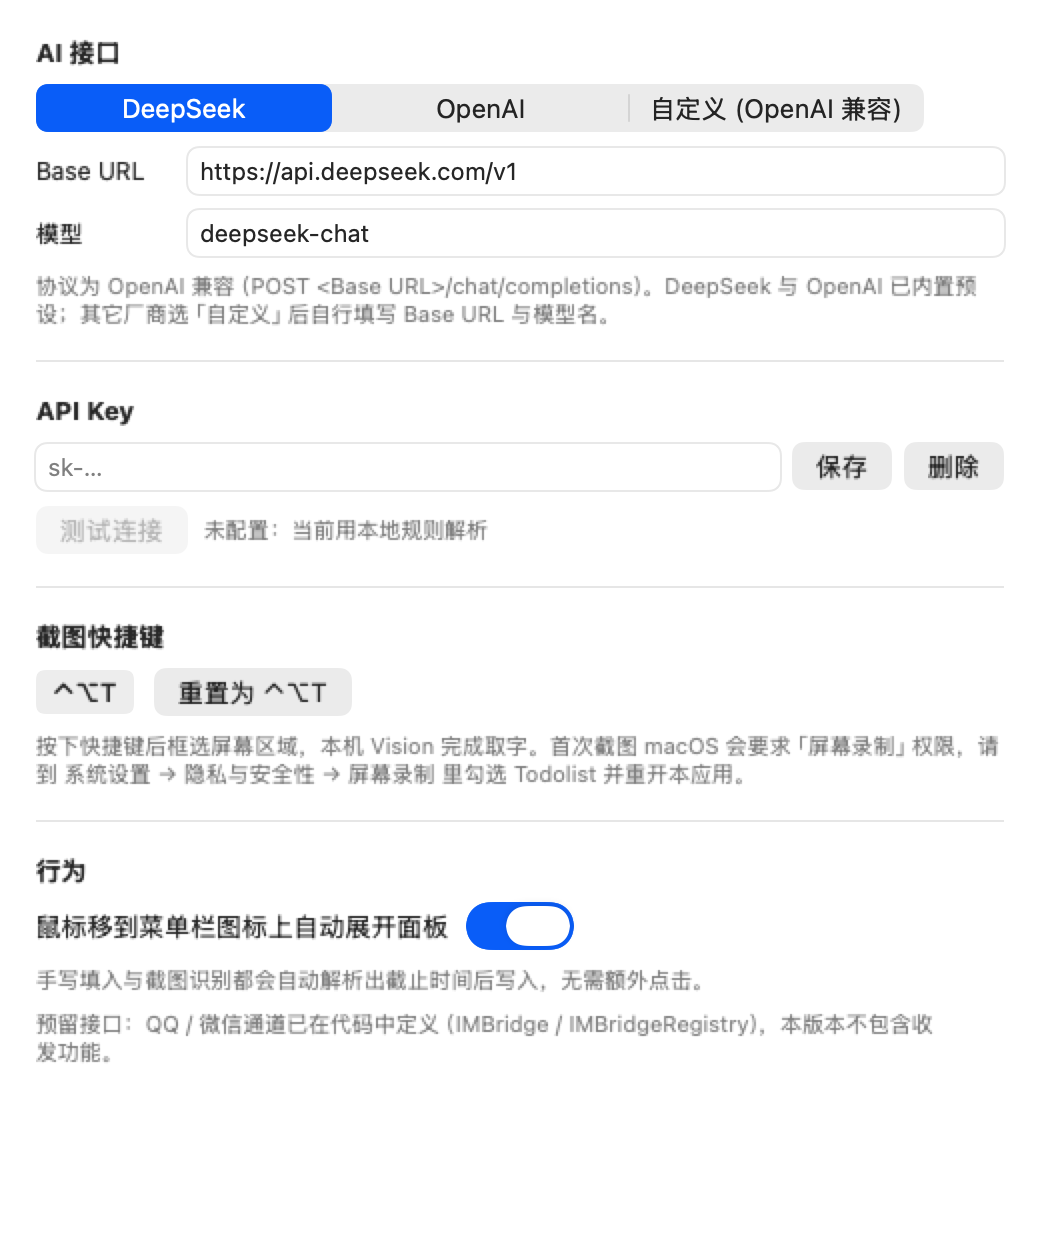
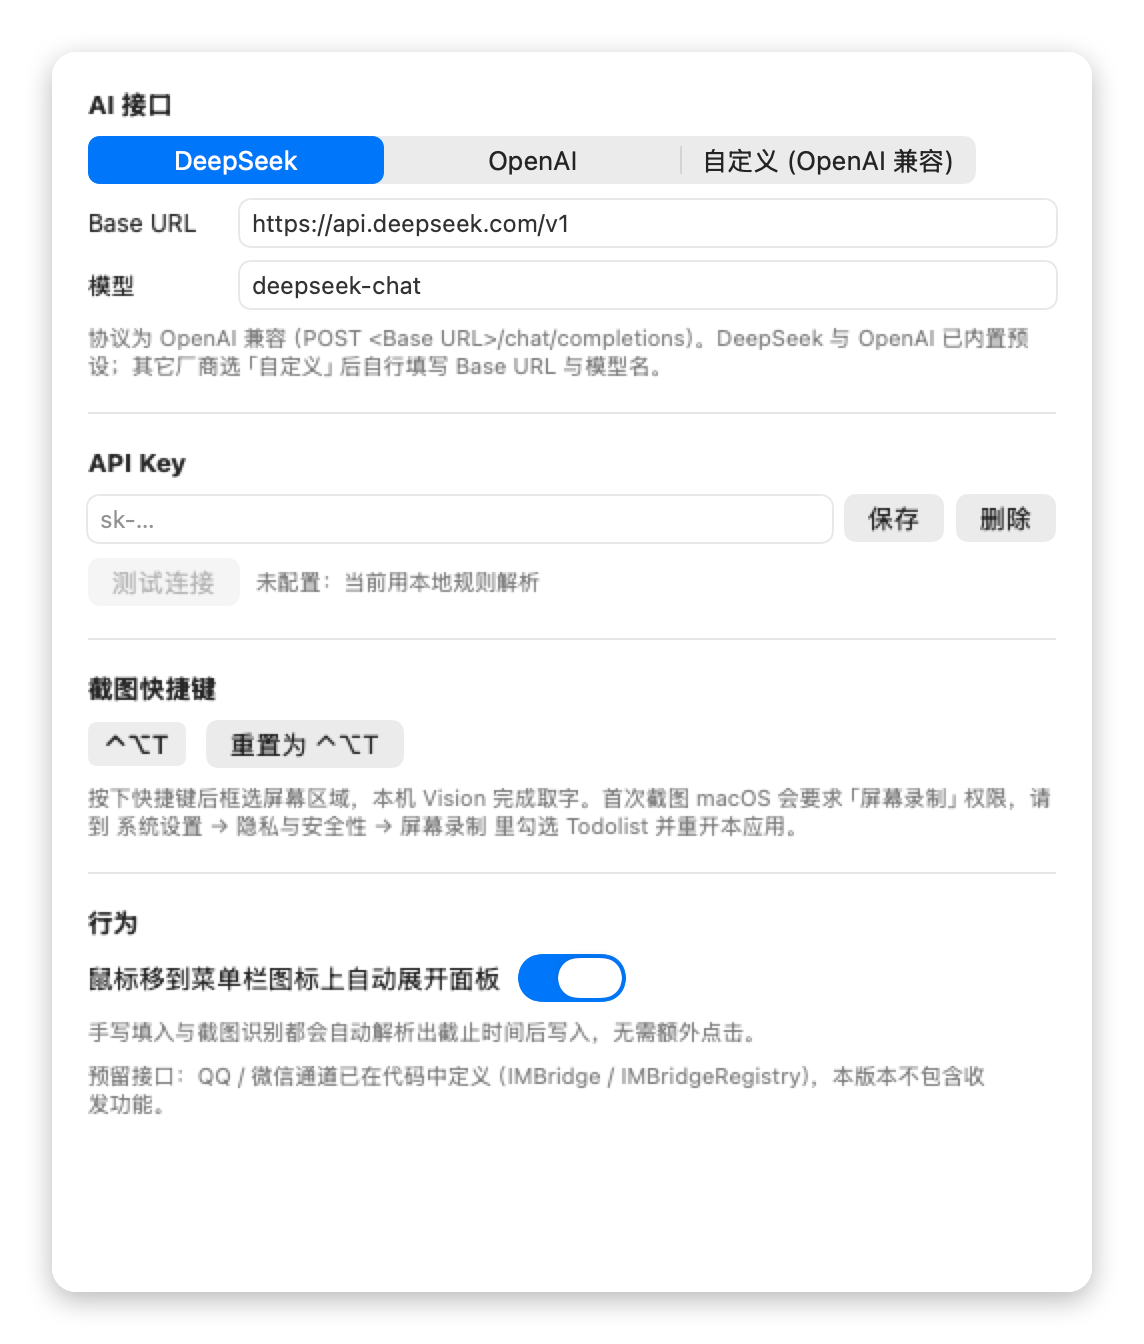
chore: 无背景截图、DMG 打包脚本与自动 Release 工作流
- 截图改为透明背景圆角卡片渲染（不再包含桌面背景）
- 新增 package.sh 生成 DMG 安装包（含拖拽安装与应用说明）
- 新增 release.yml：推 v* tag 时自动构建并上传 DMG
- 版本号 1.0.0

diff --git a/Sources/SnapshotTool.swift b/Sources/SnapshotTool.swift
@@ -1,22 +1,28 @@
 import AppKit
 import SwiftUI
 
-/// 把面板与设置窗直接渲染成 PNG，用于无屏幕录制权限时的界面验收。
+/// 把面板与设置窗渲染成无背景 PNG（透明画布 + 圆角卡片），用于 README 与界面验收。
 enum SnapshotTool {
+    private static let scale: CGFloat = 2
+    private static let padding: CGFloat = 26
+
     static func render(into directory: String) {
         let app = AppController.shared
         let dir = URL(fileURLWithPath: directory, isDirectory: true)
         try? FileManager.default.createDirectory(at: dir, withIntermediateDirectories: true)
 
-        let populated = TodoPanelView(store: app.store, app: app, actions: app.makeActions())
-        write(populated, size: NSSize(width: 380, height: 520), to: dir.appendingPathComponent("panel-populated.png"))
+        NSApp.appearance = NSAppearance(named: .aqua)
+        NSAppearance(named: .aqua)?.performAsCurrentDrawingAppearance {
+            let populated = TodoPanelView(store: app.store, app: app, actions: app.makeActions())
+            write(populated, size: NSSize(width: 380, height: 520), to: dir.appendingPathComponent("panel.png"))
 
-        let emptyStore = TodoStore(directory: dir.appendingPathComponent(".empty-store", isDirectory: true))
-        let empty = TodoPanelView(store: emptyStore, app: app, actions: app.makeActions())
-        write(empty, size: NSSize(width: 380, height: 520), to: dir.appendingPathComponent("panel-empty.png"))
+            let emptyStore = TodoStore(directory: dir.appendingPathComponent(".empty-store", isDirectory: true))
+            let empty = TodoPanelView(store: emptyStore, app: app, actions: app.makeActions())
+            write(empty, size: NSSize(width: 380, height: 520), to: dir.appendingPathComponent("panel-empty.png"))
 
-        let settings = SettingsView(app: app, settings: app.settings)
-        write(settings, size: NSSize(width: 520, height: 620), to: dir.appendingPathComponent("settings.png"))
+            let settings = SettingsView(app: app, settings: app.settings)
+            write(settings, size: NSSize(width: 520, height: 620), to: dir.appendingPathComponent("settings.png"))
+        }
 
         NSLog("[snapshot] written to \(dir.path)")
     }
@@ -26,13 +32,56 @@ enum SnapshotTool {
         hosting.frame = NSRect(origin: .zero, size: size)
         hosting.layoutSubtreeIfNeeded()
 
-        let appearance = NSAppearance(named: .aqua)
-        appearance?.performAsCurrentDrawingAppearance {
-            guard let rep = hosting.bitmapImageRepForCachingDisplay(in: hosting.bounds) else { return }
-            hosting.cacheDisplay(in: hosting.bounds, to: rep)
-            if let png = rep.representation(using: .png, properties: [:]) {
-                try? png.write(to: url)
-            }
-        }
+        guard let inner = hosting.bitmapImageRepForCachingDisplay(in: hosting.bounds) else { return }
+        hosting.cacheDisplay(in: hosting.bounds, to: inner)
+        let innerImage = NSImage(size: size)
+        innerImage.addRepresentation(inner)
+
+        let canvas = NSSize(width: size.width + padding * 2, height: size.height + padding * 2)
+        let pixelsWide = Int(canvas.width * scale)
+        let pixelsHigh = Int(canvas.height * scale)
+        guard let canvasRep = NSBitmapImageRep(
+            bitmapDataPlanes: nil,
+            pixelsWide: pixelsWide,
+            pixelsHigh: pixelsHigh,
+            bitsPerSample: 8,
+            samplesPerPixel: 4,
+            hasAlpha: true,
+            isPlanar: false,
+            colorSpaceName: .deviceRGB,
+            bytesPerRow: 0,
+            bitsPerPixel: 0
+        ) else { return }
+        canvasRep.size = canvas
+
+        NSGraphicsContext.saveGraphicsState()
+        NSGraphicsContext.current = NSGraphicsContext(bitmapImageRep: canvasRep)
+        NSColor.clear.set()
+        NSRect(origin: .zero, size: canvas).fill()
+
+        let panelRect = NSRect(x: padding, y: padding, width: size.width, height: size.height)
+        let card = NSBezierPath(roundedRect: panelRect, xRadius: 12, yRadius: 12)
+
+        let shadow = NSShadow()
+        shadow.shadowBlurRadius = 14
+        shadow.shadowOffset = NSSize(width: 0, height: -4)
+        shadow.shadowColor = NSColor.black.withAlphaComponent(0.28)
+        NSGraphicsContext.saveGraphicsState()
+        shadow.set()
+        NSColor.white.set()
+        card.fill()
+        NSGraphicsContext.restoreGraphicsState()
+
+        NSGraphicsContext.saveGraphicsState()
+        card.addClip()
+        NSColor.white.set()
+        panelRect.fill()
+        innerImage.draw(in: panelRect)
+        NSGraphicsContext.restoreGraphicsState()
+
+        NSGraphicsContext.restoreGraphicsState()
+
+        guard let png = canvasRep.representation(using: .png, properties: [:]) else { return }
+        try? png.write(to: url)
     }
 }

diff --git a/README.md b/README.md
@@ -2,16 +2,23 @@
 
 菜单栏常驻的原生 macOS 待办应用。事项以「截止时间 + 事项」呈现，支持手写填入、截图 OCR 提取、以及模型解析自然语言写入。
 
-<img src="docs/screenshots/menubar-panel.png" width="380" alt="菜单栏面板">
+<img src="docs/screenshots/panel.png" width="380" alt="菜单栏面板">
 
 MIT License · 无第三方依赖 · 纯 Swift / AppKit + SwiftUI
 
-## 构建与安装
+## 安装
+
+从 [Releases](https://github.com/Sad-Bee666/Todolist/releases) 下载 `Todolist-x.y.z.dmg`，打开后把 Todolist 拖进 Applications。
+
+## 从源码构建
 
 ```bash
 ./build.sh     # 产出 dist/Todolist.app（含 ad-hoc 本地签名）
 ./install.sh   # 复制到 ~/Applications 并启动
+./package.sh   # 产出 dist/Todolist-x.y.z.dmg
 ```
+
+推送 `v*` 形式的 tag 会触发 GitHub Actions 自动构建并上传 DMG 到 Release。
 
 - 需要 macOS 14+（本机 26.4，arm64）。
 - 工具链只依赖 Xcode Command Line Tools。构建脚本显式传入 `-sdk` 与 `-module-cache-path`（沙箱环境下模块缓存必须落在项目内）。
@@ -82,8 +89,7 @@ Sources/
 
 | 文件 | 内容 |
 | --- | --- |
-| `menubar-panel.png` | 已安装版本实跑：鼠标悬停展开、截止时间+事项、过期标红、来源角标 |
-| `panel.png` | 面板全态（今天/明天 与日期形式混排、无截止时间置底、已完成沉底） |
+| `panel.png` | 面板全态（今天/明天 与日期形式混排、无截止时间置底、已完成沉底、过期标红） |
 | `panel-empty.png` | 空列表态 |
 | `settings.png` | 设置窗全貌 |
 
